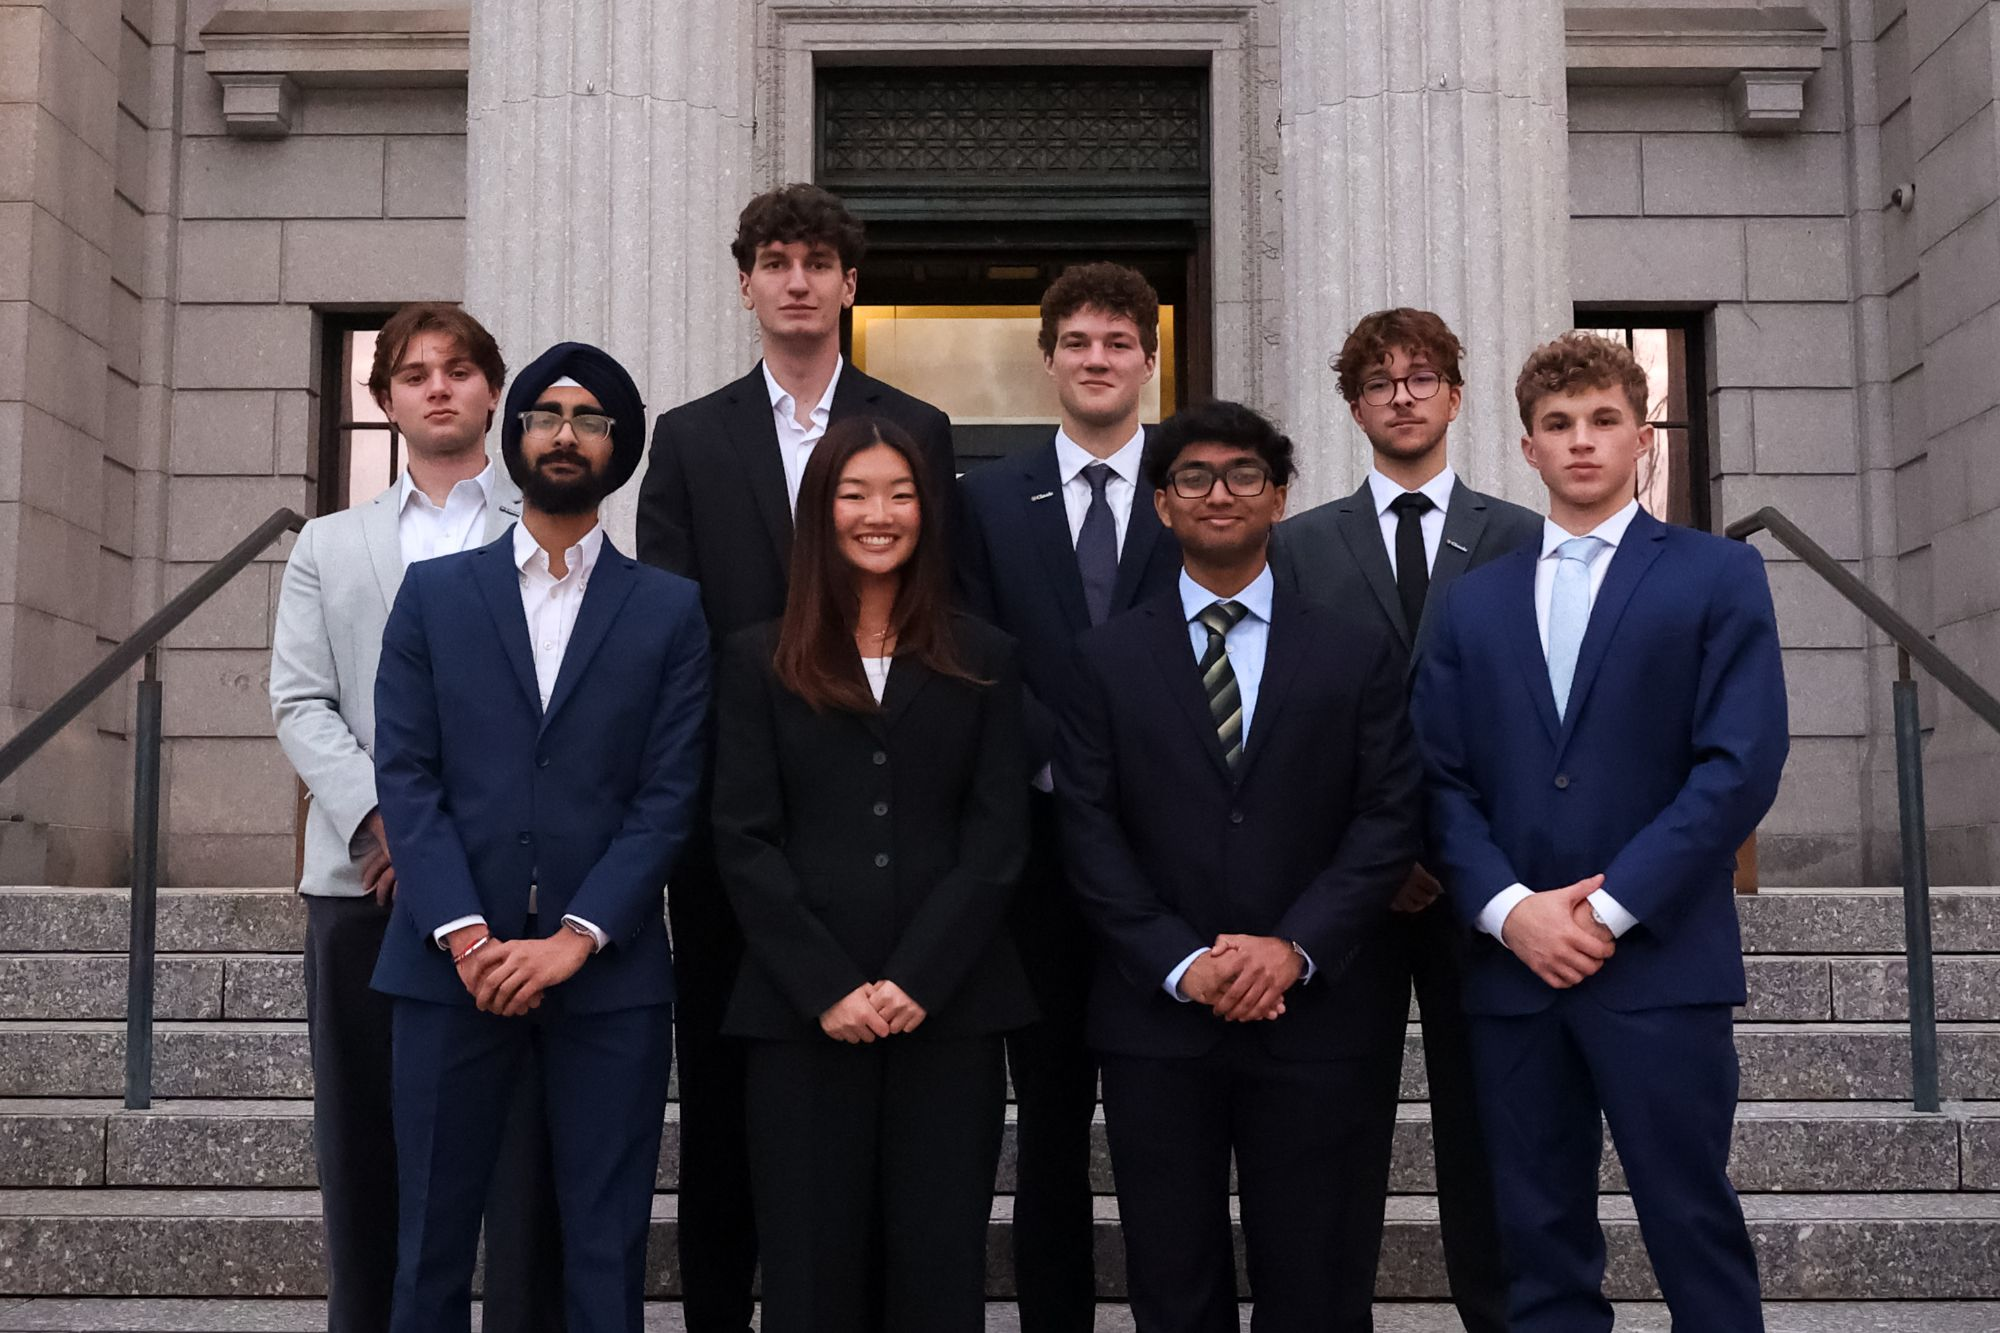
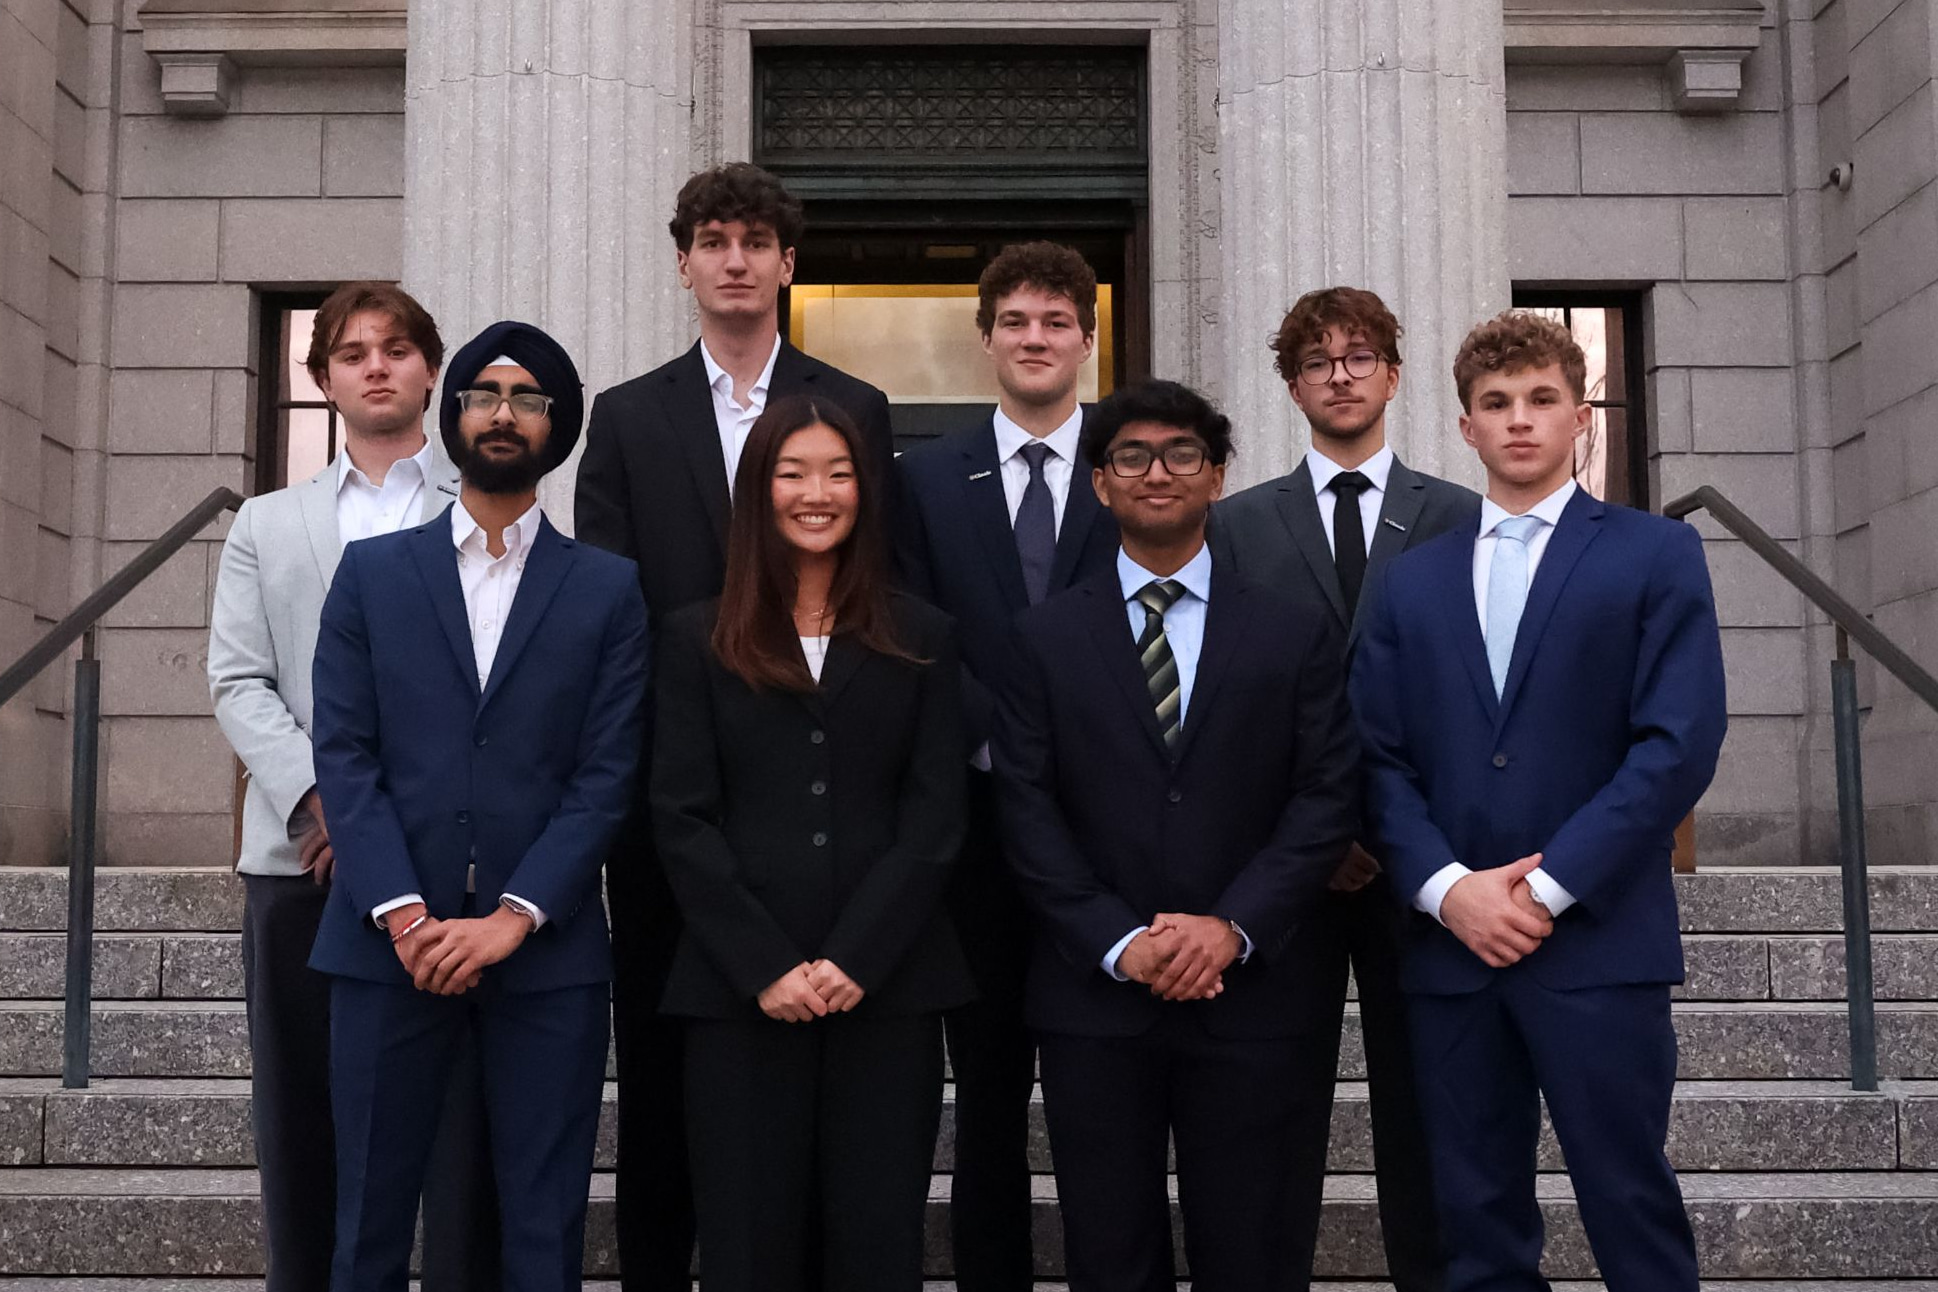
about: sharper, centred group photo
- Centre the group: it sat about 1.5% right of centre (327px of empty
  stone on its left, 265px on its right). The master is now cropped 62px
  off the left, keeping 3:2, so the group sits at 50%.
- Encode the team photos at AVIF 70 / WebP 85 / JPEG 82 instead of the
  blog's thumbnail settings. AVIF 52 visibly smeared hair and skin on a
  photo drawn 1024px wide. Measured at 1920px: SSIM 0.965 -> 0.990 for
  198 KB instead of 121 KB.
- Top rung 1920 instead of 2000, since the centred master is 1938px wide
  and a rung must not claim more pixels than the file has.

diff --git a/src/lib/team.js b/src/lib/team.js
@@ -13,7 +13,7 @@
  */
 
 /** Kept in step with WIDTHS in scripts/build-team-photos.mjs. */
-export const TEAM_WIDTHS = [480, 960, 1440, 2000];
+export const TEAM_WIDTHS = [480, 960, 1440, 1920];
 
 export const GROUP_PHOTO = {
   src: "group",

diff --git a/README.md b/README.md
@@ -333,7 +333,9 @@ screen readers lives once, in `AMBASSADOR_TITLE`.
 The group photo that opens `/about` and the row of candids under its two text
 columns follow the same pattern. Masters live in `team-src/` at about 2000px on
 the long edge and are never deployed; `scripts/build-team-photos.mjs` writes
-480 / 960 / 1440 / 2000 widths in AVIF, WebP and JPEG into `public/team/`.
+480 / 960 / 1440 / 1920 widths in AVIF, WebP and JPEG into `public/team/`, at
+higher quality than the blog's thumbnails (AVIF 70), because the group photo
+is the page's main picture; the script records the measurements behind that.
 Each picture's alt text and the `sizes` strings live in `src/lib/team.js`.
 `npm run images` rebuilds them without a full build.
 
